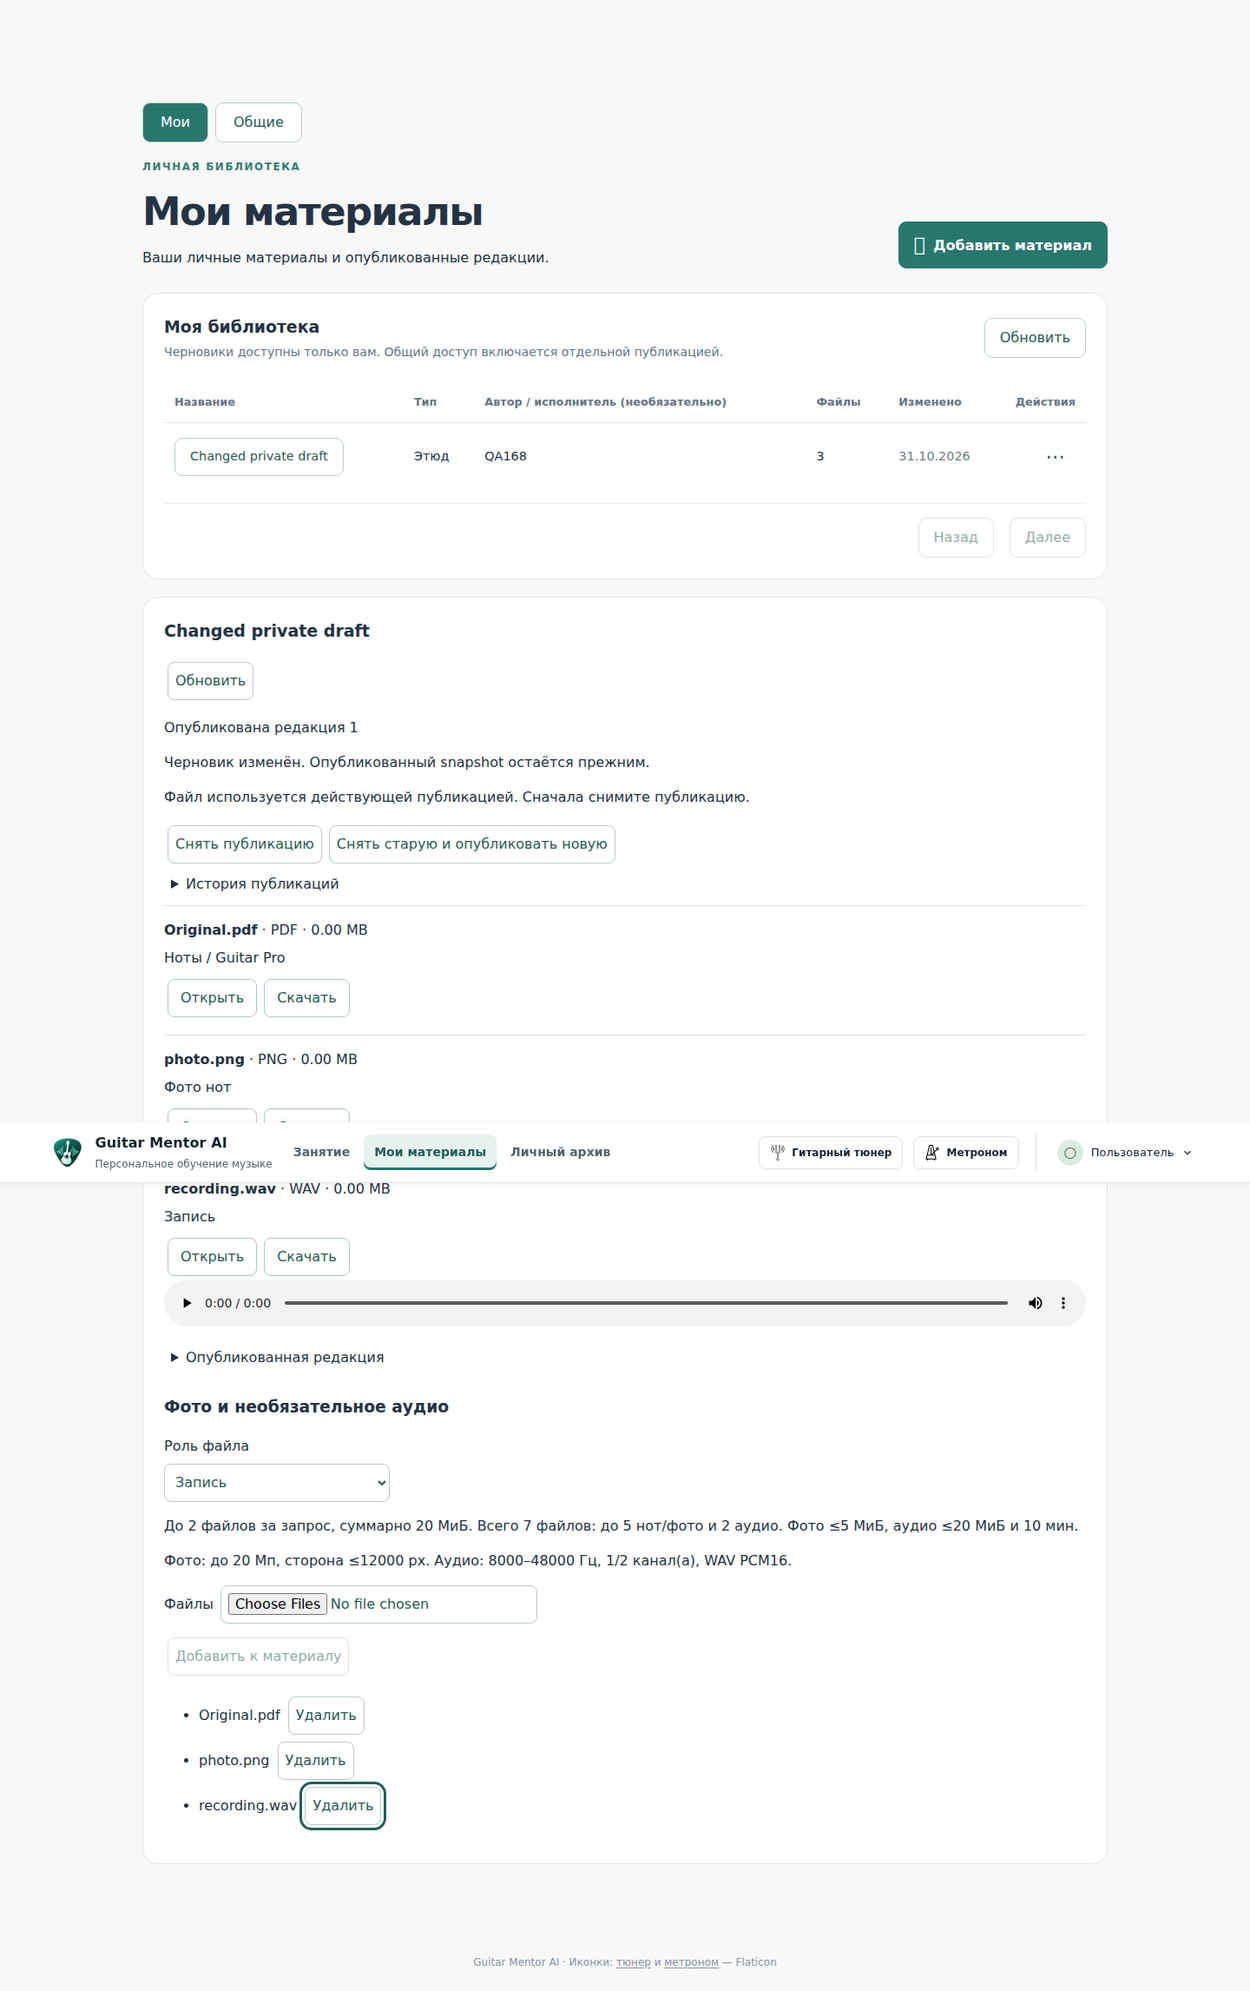
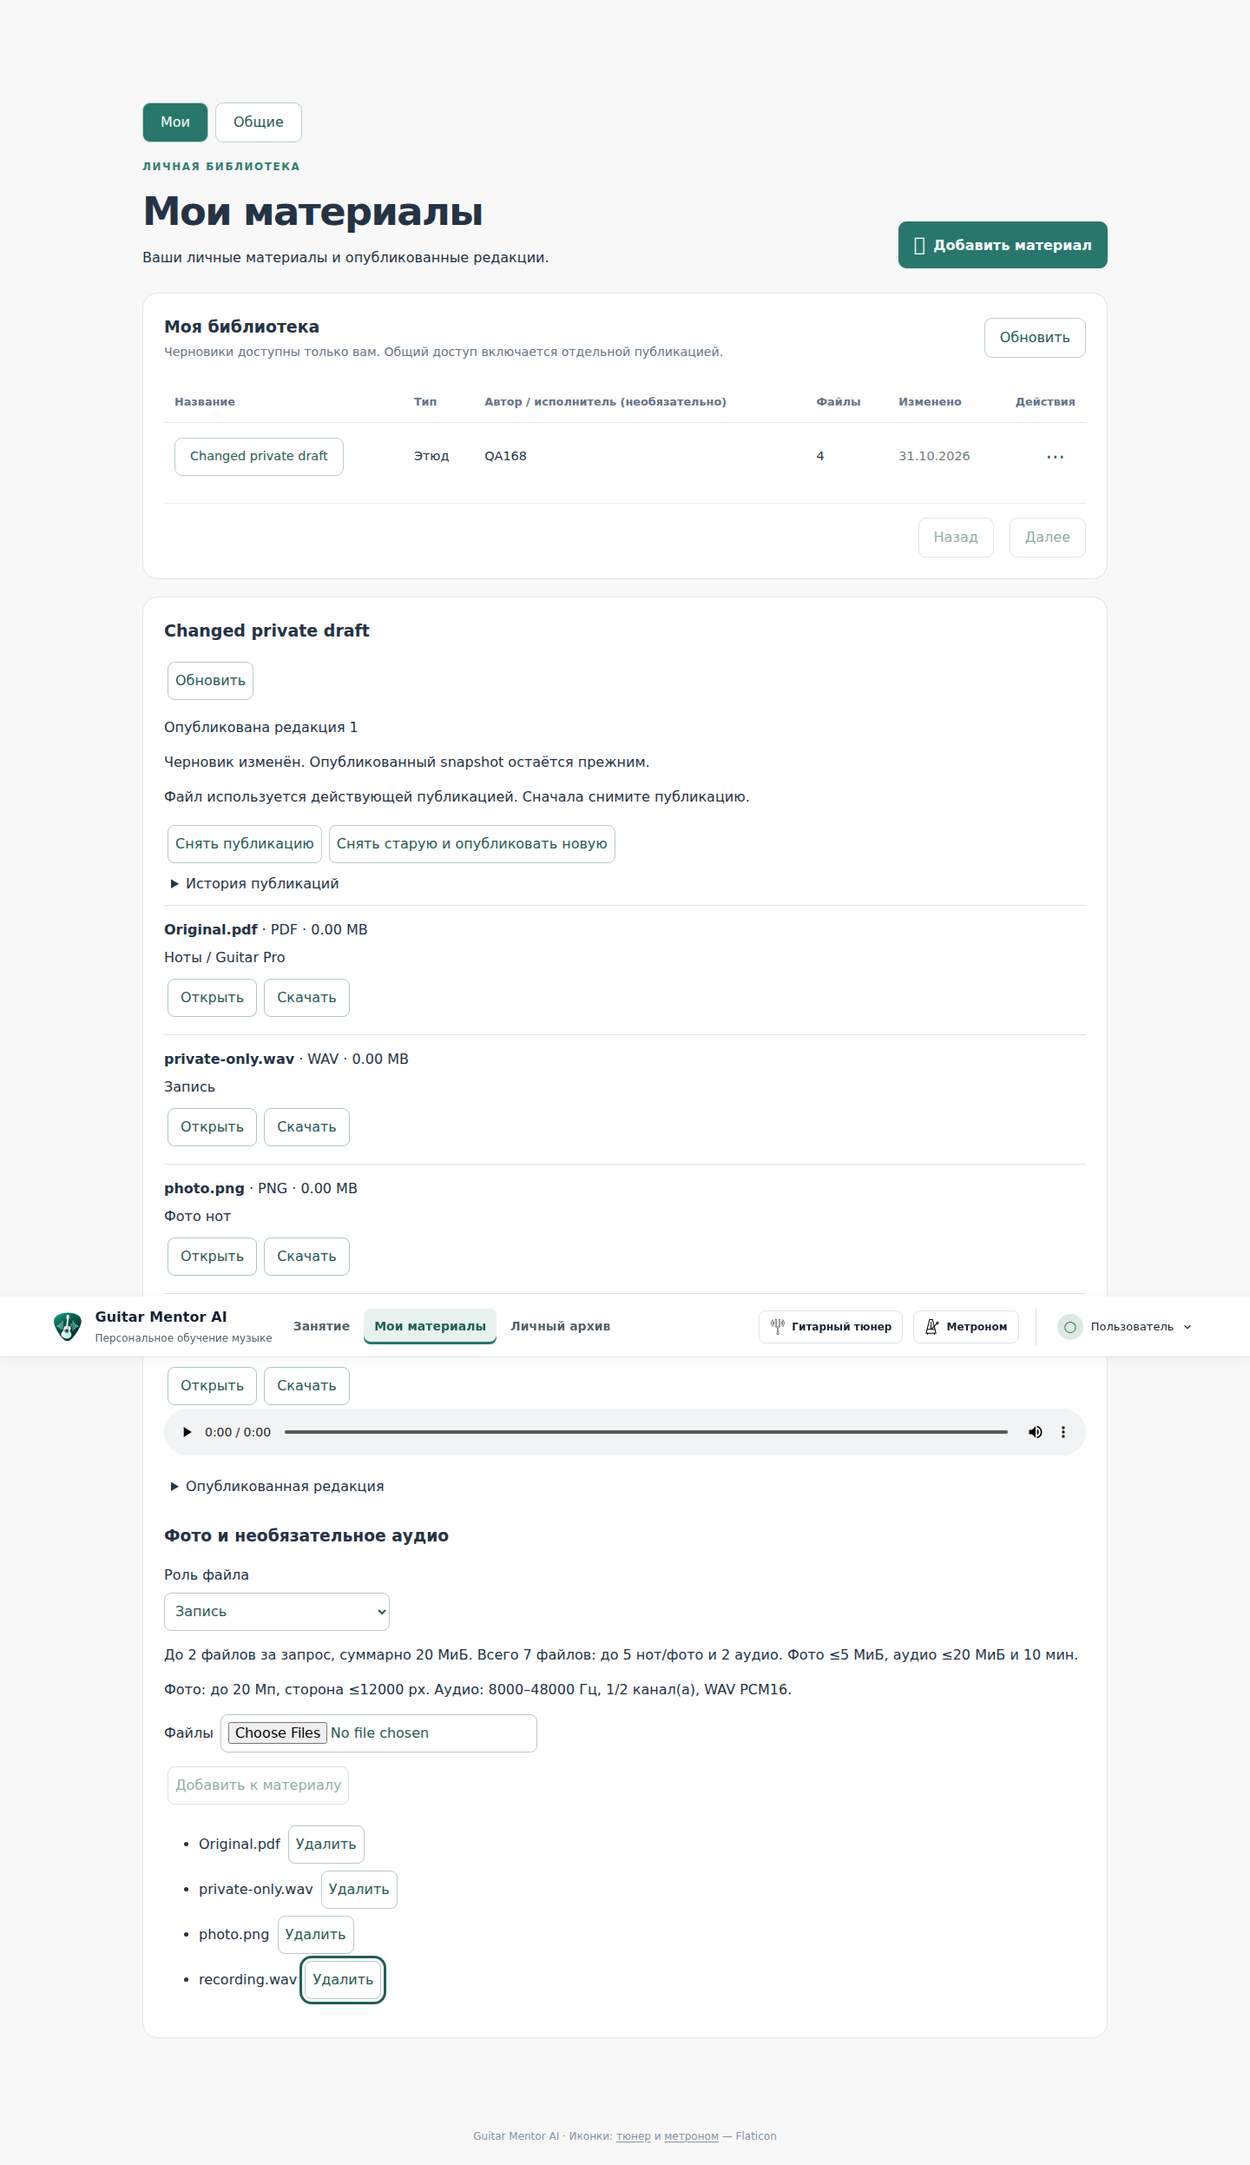
fix(catalog): publish only explicitly selected ready assets (#168)

diff --git a/frontend/src/entities/library/MaterialSharing.vue b/frontend/src/entities/library/MaterialSharing.vue
@@ -198,11 +198,11 @@ async function publish() {
     const selected = rights.value
       .filter((r) => r.chosen)
       .map(({ chosen: _, ...r }) => r);
-    // Accepted backend currently requires rights for every source asset, not a subset.
     if (
       !confirm.value ||
-      selected.length !== material.files.length ||
       !selected.length ||
+      !selected.some(r=>material.files.some(f=>f.id===r.assetId && ['SCORE_ORIGINAL','PHOTO_ORIGINAL'].includes(f.role))) ||
+      selected.some(r=>!material.files.some(f=>f.id===r.assetId && f.processingState==='READY')) ||
       selected.some(
         (r) =>
           !r.rightsBasis ||
@@ -524,7 +524,7 @@ async function refresh() {
           >
           <label
             >{{ t("community.basis")
-            }}<select v-model="r.rightsBasis" required @change="basis(r)">
+            }}<select v-model="r.rightsBasis" :required="r.chosen" :disabled="!r.chosen" @change="basis(r)">
               <option disabled value="">{{ t("community.choose") }}</option>
               <option v-for="b in bases" :key="b" :value="b">
                 {{ t("community.bases." + b) }}
@@ -541,14 +541,14 @@ async function refresh() {
             >{{ t("community.evidence")
             }}<textarea
               v-model="r.rightsEvidence"
-              required
+              :required="r.chosen" :disabled="!r.chosen"
               minlength="8"
               maxlength="500"
             />
           </label>
           <label
             >{{ t("community.attribution")
-            }}<textarea v-model="r.attribution" maxlength="2000" />
+            }}<textarea v-model="r.attribution" :disabled="!r.chosen" maxlength="2000" />
           </label>
         </fieldset>
         <label

diff --git a/backend/src/test/java/ai/guitarmentor/interfaces/rest/library/LibraryPublicationPostgresTest.java b/backend/src/test/java/ai/guitarmentor/interfaces/rest/library/LibraryPublicationPostgresTest.java
@@ -77,6 +77,78 @@ class LibraryPublicationPostgresTest {
     }
     interface Executable {void run() throws Exception;}
 
+    private UUID extraAsset(UUID material,String role,String state) throws Exception {
+        UUID id=UUID.randomUUID();
+        var stored=storage.put(new ByteArrayInputStream("synthetic private asset".getBytes()),1024);
+        boolean audio=role.equals("ORIGINAL_RECORDING");
+        jdbc.sql("""
+            INSERT INTO library_assets(id,material_id,object_key,original_name,format,byte_size,sha256,role,media_type,processing_state,duration_millis,channels,sample_rate)
+            VALUES(:id,:material,:key,:name,:format,:bytes,:sha,:role,:mime,:state,
+                CASE WHEN :role='ORIGINAL_RECORDING' THEN 1000 ELSE NULL END,
+                CASE WHEN :role='ORIGINAL_RECORDING' THEN 1 ELSE NULL END,
+                CASE WHEN :role='ORIGINAL_RECORDING' THEN 8000 ELSE NULL END)
+            """).param("id",id).param("material",material).param("key",stored.key())
+            .param("name",audio?"private.wav":"private.pdf").param("format",audio?"WAV":"PDF")
+            .param("bytes",stored.length()).param("sha",stored.sha256()).param("role",role)
+            .param("mime",audio?"audio/wav":"application/pdf").param("state",state).update();
+        return id;
+    }
+    @Test void selectedSubsetExcludesPrivateAudioAndUnavailableUnselectedAssetEvenWithMediaOff() throws Exception {
+        UUID owner=newAccount("LEARNER"),reader=newAccount("LEARNER");
+        var source=material(owner,"Subset without audio");
+        UUID audio=extraAsset(source.material(),"ORIGINAL_RECORDING","READY");
+        UUID rejected=extraAsset(source.material(),"SCORE_ORIGINAL","REJECTED");
+        String key=UUID.randomUUID().toString();
+        var selected=rights(source.asset());
+        var result=publications.publish(req(owner,"LEARNER"),source.material(),"\"1\"",key,selected).getBody();
+        assertEquals(List.of(source.asset()),result.assets().stream().map(a->a.id()).toList());
+        assertEquals(result.id(),publications.publish(req(owner,"LEARNER"),source.material(),"\"1\"",key,selected).getBody().id());
+        assertEquals("PUBLICATION_IDEMPOTENCY_CONFLICT",code(()->publications.publish(req(owner,"LEARNER"),source.material(),"\"1\"",key,rights(audio))));
+        assertEquals("PUBLICATION_NOT_FOUND",code(()->publications.publishedContent(req(reader,"LEARNER"),result.id(),audio)));
+        assertEquals("PUBLICATION_NOT_FOUND",code(()->publications.publishedContent(req(reader,"LEARNER"),result.id(),rejected)));
+        assertEquals(1,search.search(req(reader,"LEARNER"),"Subset without audio",null,null,false,20,null).getBody().items().size());
+        assertTrue(search.search(req(reader,"LEARNER"),"Subset without audio",null,null,true,20,null).getBody().items().isEmpty());
+    }
+    @Test void selectedSubsetRejectsForeignUnknownDuplicateAndAudioOnlyAssets() throws Exception {
+        UUID owner=newAccount("LEARNER");
+        var source=material(owner,"Selection validation");var other=material(owner,"Other private material");
+        UUID audio=extraAsset(source.material(),"ORIGINAL_RECORDING","READY");
+        var request=req(owner,"LEARNER");
+        for(UUID invalid:List.of(other.asset(),UUID.randomUUID())) {
+            var mixed=new LibraryPublicationController.PublishRequest(List.of(rights(source.asset()).assets().getFirst(),rights(invalid).assets().getFirst()));
+            assertEquals("PUBLICATION_INVALID_RIGHTS",code(()->publications.publish(request,source.material(),"\"1\"",mixed)));
+        }
+        assertEquals("PUBLICATION_INVALID_RIGHTS",code(()->publications.publish(request,source.material(),"\"1\"",rights(audio))));
+        var duplicate=new LibraryPublicationController.PublishRequest(List.of(rights(source.asset()).assets().getFirst(),rights(source.asset()).assets().getFirst()));
+        assertEquals("PUBLICATION_INVALID_RIGHTS",code(()->publications.publish(request,source.material(),"\"1\"",duplicate)));
+        assertEquals(0L,jdbc.sql("SELECT count(*) FROM library_publications WHERE material_id=:id").param("id",source.material()).query(Long.class).single());
+    }
+    @Test void selectedSubsetRequiresReadyAndOwnRightsForEveryIncludedAsset() throws Exception {
+        UUID owner=newAccount("LEARNER");var source=material(owner,"Ready selection");
+        UUID rejected=extraAsset(source.material(),"SCORE_ORIGINAL","REJECTED");
+        var payload=new LibraryPublicationController.PublishRequest(List.of(rights(source.asset()).assets().getFirst(),rights(rejected).assets().getFirst()));
+        assertEquals("CATALOG_ASSET_NOT_READY",code(()->publications.publish(req(owner,"LEARNER"),source.material(),"\"1\"",payload)));
+        var invalidRight=new LibraryPublicationController.AssetRight(source.asset(),"CREATED","OWN_WORK","");
+        assertEquals("PUBLICATION_INVALID_RIGHTS",code(()->publications.publish(req(owner,"LEARNER"),source.material(),"\"1\"",new LibraryPublicationController.PublishRequest(List.of(invalidRight)))));
+        assertEquals("LIBRARY_REVISION_CONFLICT",code(()->publications.publish(req(owner,"LEARNER"),source.material(),"\"2\"",rights(source.asset()))));
+    }
+
+    @Test void photoOnlySelectionCanLeaveScorePrivateWhenMediaEnabled() throws Exception {
+        UUID owner=newAccount("LEARNER");var source=material(owner,"Photo selected");
[1 lines of base64/hex data omitted]
+        var original=storage.put(new ByteArrayInputStream(bytes),1024);var preview=storage.put(new ByteArrayInputStream(bytes),1024);
+        jdbc.sql("""
+            INSERT INTO library_assets(id,material_id,object_key,original_name,format,byte_size,sha256,role,media_type,width,height,preview_object_key,preview_byte_size)
+            VALUES(:id,:material,:key,'selected.png','PNG',:bytes,:sha,'PHOTO_ORIGINAL','image/png',1,1,:preview,:bytes)
+            """).param("id",photo).param("material",source.material()).param("key",original.key())
+            .param("bytes",original.length()).param("sha",original.sha256()).param("preview",preview.key()).update();
+        var media=new LibraryPublicationController(jdbc,storage,true,true);
+        var published=media.publish(req(owner,"LEARNER"),source.material(),"\"1\"",rights(photo)).getBody();
+        assertEquals(List.of(photo),published.assets().stream().map(a->a.id()).toList());
+        assertNotNull(published.assets().getFirst().previewUrl());
+        assertEquals("PUBLICATION_NOT_FOUND",code(()->media.publishedContent(req(owner,"LEARNER"),published.id(),source.asset())));
+    }
+
     @Test void allRequestedTagsAndOpaqueCursorExcludeSingleTagMatches() throws Exception {
         UUID owner=newAccount("LEARNER"),reader=newAccount("LEARNER");
         var a=material(owner,"AND regression A only");

diff --git a/backend/src/main/java/ai/guitarmentor/interfaces/rest/library/LibraryPublicationController.java b/backend/src/main/java/ai/guitarmentor/interfaces/rest/library/LibraryPublicationController.java
@@ -190,15 +190,30 @@ public class LibraryPublicationController {
             """).param("id",materialId).query(Long.class).single();
         if(already!=0) throw new Failure(409,"PUBLICATION_ALREADY_ACTIVE");
 
-        var assets=jdbc.sql("""
+        Map<UUID,AssetRight> rights=new HashMap<>();
+        for(var right:payload.assets()) {
+            if(right==null || right.assetId()==null || right.rightsBasis()==null
+                    || !BASES.contains(right.rightsBasis())
+                    || (right.provenance()!=null && !PROVENANCES.contains(right.provenance()))
+                    || (right.attribution()!=null && right.attribution().length()>2000)
+                    || right.rightsEvidence()==null || right.rightsEvidence().isBlank()
+                    || right.rightsEvidence().trim().length()<8
+                    || right.rightsEvidence().length()>500
+                    || rights.putIfAbsent(right.assetId(),right)!=null)
+                throw new Failure(400,"PUBLICATION_INVALID_RIGHTS");
+        }
+        var sourceAssets=jdbc.sql("""
             SELECT id,original_name,format,byte_size,sha256,object_key,role,media_type,
                 duration_millis,channels,sample_rate,width,height,preview_object_key,preview_byte_size,processing_state
             FROM library_assets WHERE material_id=:id ORDER BY id FOR SHARE
             """).param("id",materialId).query().listOfRows();
+        // Select only explicitly attested assets belonging to this material. Never infer
+        // membership from an asset UUID, title or owner supplied by the client.
+        var assets=sourceAssets.stream().filter(asset->rights.containsKey((UUID)asset.get("id"))).toList();
         long scorePhoto=assets.stream().filter(a->Set.of("SCORE_ORIGINAL","PHOTO_ORIGINAL").contains(a.get("role"))).count();
         long audio=assets.stream().filter(a->Set.of("ORIGINAL_RECORDING","SYNTHESIZED_PREVIEW").contains(a.get("role"))).count();
         if(assets.isEmpty() || assets.size()>7 || scorePhoto<1 || scorePhoto>5 || audio>2
-                || payload==null || payload.assets()==null || payload.assets().size()!=assets.size())
+                || assets.size()!=rights.size())
             throw new Failure(400,"PUBLICATION_INVALID_RIGHTS");
         if(assets.stream().anyMatch(a->!"READY".equals(a.get("processing_state"))
                 || ("PHOTO_ORIGINAL".equals(a.get("role")) && a.get("preview_object_key")==null)))
@@ -212,24 +227,6 @@ public class LibraryPublicationController {
             }
         } catch(java.nio.file.NoSuchFileException e) { throw new Failure(409,"CATALOG_ASSET_NOT_READY"); }
           catch(IOException e) { throw new Failure(503,"PUBLICATION_STORAGE_UNAVAILABLE"); }
-        Map<UUID,AssetRight> rights=new HashMap<>();
-        for(var right:payload.assets()) {
-            if(right==null || right.assetId()==null || right.rightsBasis()==null
-                    || !BASES.contains(right.rightsBasis())
-                    || (right.provenance()!=null && !PROVENANCES.contains(right.provenance()))
-                    || (right.attribution()!=null && right.attribution().length()>2000)
-                    || right.rightsEvidence()==null || right.rightsEvidence().isBlank()
-                    || right.rightsEvidence().trim().length()<8
-                    || right.rightsEvidence().length()>500
-                    || rights.putIfAbsent(right.assetId(),right)!=null)
-                throw new Failure(400,"PUBLICATION_INVALID_RIGHTS");
-        }
-        // Assertions must be made independently for every asset. A material-level checkbox
-        // cannot attest rights to a second file. Evidence is recorded, not independently verified.
-        for(var asset:assets) {
-            UUID assetId=(UUID)asset.get("id");
-            if(!rights.containsKey(assetId)) throw new Failure(400,"PUBLICATION_INVALID_RIGHTS");
-        }
         long latest=jdbc.sql("""
             SELECT COALESCE(max(version),0) FROM library_publications WHERE material_id=:id
             """).param("id",materialId).query(Long.class).single();

diff --git a/backend/src/test/java/ai/guitarmentor/infrastructure/security/CommunityLibraryLiveHttpPostgresTest.java b/backend/src/test/java/ai/guitarmentor/infrastructure/security/CommunityLibraryLiveHttpPostgresTest.java
@@ -63,8 +63,10 @@ class CommunityLibraryLiveHttpPostgresTest {
             var alice=new Session();var bob=new Session();var guest=new Session();alice.login(nameA);bob.login(nameB);
             String boundary="qa168"+suffix;
             String multipart="--"+boundary+"\r\nContent-Disposition: form-data; name=\"metadata\"\r\nContent-Type: application/json\r\n\r\n{\"title\":\"QA168 original\",\"type\":\"ETUDE\"}\r\n--"+boundary+"\r\nContent-Disposition: form-data; name=\"files\"; filename=\"synthetic.pdf\"\r\nContent-Type: application/pdf\r\n\r\n%PDF-1.7\nSynthetic QA168 score\n\r\n--"+boundary+"--\r\n";
+            multipart=multipart.replace("--"+boundary+"--\r\n", "--"+boundary+"\r\nContent-Disposition: form-data; name=\"files\"; filename=\"private-only.pdf\"\r\nContent-Type: application/pdf\r\n\r\n%PDF-1.7\nPrivate omitted score\n\r\n--"+boundary+"--\r\n");
             var created=alice.request("POST","/api/v1/library/materials",multipart,Map.of("Content-Type","multipart/form-data; boundary="+boundary,"Idempotency-Key",UUID.randomUUID().toString()));
             assertEquals(201,created.statusCode(),created.body());JsonNode material=JSON.readTree(created.body());String id=material.path("id").asText(),asset=material.path("files").get(0).path("id").asText();
+            String omitted=material.path("files").get(1).path("id").asText();
             String own="/api/v1/library/materials/"+id;
             assertEquals(404,bob.request("GET",own,null,Map.of()).statusCode());
             assertEquals(404,bob.request("GET",own+"/publications",null,Map.of()).statusCode());
@@ -76,13 +78,15 @@ class CommunityLibraryLiveHttpPostgresTest {
             assertEquals(200,alice.request("POST",own+"/publications",body,headers).statusCode());
             assertEquals(401,guest.request("GET",common,null,Map.of()).statusCode());
             var read=bob.request("GET",common,null,Map.of());assertEquals(200,read.statusCode(),read.body());assertEquals("QA168 original",JSON.readTree(read.body()).path("title").asText());
+            assertEquals(1,JSON.readTree(read.body()).path("assets").size());
+            assertEquals(404,bob.request("GET",common+"/files/"+omitted+"/content",null,Map.of()).statusCode(),"an omitted source asset is never shared");
             assertFalse(JSON.readTree(read.body()).has("ownerAccountId"));assertFalse(JSON.readTree(read.body()).has("materialId"));
             assertEquals(200,bob.request("GET",common+"/files/"+asset+"/content",null,Map.of()).statusCode());
             var edited=alice.request("PATCH",own,"{\"title\":\"QA168 changed draft\"}",Map.of("Content-Type","application/json","If-Match","\"1\""));assertEquals(200,edited.statusCode(),edited.body());
             var stable=bob.request("GET",common,null,Map.of());assertEquals(JSON.readTree(read.body()),JSON.readTree(stable.body()),"draft edit cannot change snapshot");
             var withdrawn=alice.request("POST",own+"/publications/"+snapshot.path("id").asText()+"/withdraw","{}",Map.of("Content-Type","application/json","If-Match","\""+snapshot.path("revision").asLong()+"\""));assertEquals(200,withdrawn.statusCode(),withdrawn.body());
             assertEquals(404,bob.request("GET",common,null,Map.of()).statusCode());assertEquals(404,bob.request("GET",common+"/files/"+asset+"/content",null,Map.of()).statusCode());
-            System.out.println("QA168 LIVE HTTP/PostgreSQL PASS: independent A/B cookie jars, guest deny, publish replay, draft private, snapshot stable, withdraw revokes detail+bytes");
+            System.out.println("QA168 LIVE HTTP/PostgreSQL PASS: independent A/B cookie jars, guest deny, selected subset + omitted bytes denied, publish replay, draft private, snapshot stable, withdraw revokes detail+bytes");
         } finally {
             // Only synthetic accounts made by this test; all paths live under a unique temp root.
             for(String sql:List.of(

diff --git a/docs/development/FT-012-01-publication-lifecycle.md b/docs/development/FT-012-01-publication-lifecycle.md
@@ -46,3 +46,8 @@ Flyway V28 is additive. No automatic sharing, no backfill, no migration of index
 
 ## Acceptance boundary
 This task is backend publication/withdraw/HIDE; **not** visible in the current UI until #168 and not discoverable via public search until #166. Direct public-detail links are addressable only with a known publication UUID. CI and security review must pass before user acceptance, merge and closing #165.
+
+
+## #168: explicit selected assets (01.11.2026)
+
+Owner-authorized follow-up: publish accepts a non-empty READY subset from the owner's current material, with at least one SCORE_ORIGINAL or PHOTO_ORIGINAL and independent rights for every included asset. Unselected originals/audio remain private and are absent from the immutable snapshot, search hasAudio and shared byte routes. Unknown/foreign/duplicate selections, audio-only selections and invalid selected rights fail; readiness/storage/media-flag checks apply only to selected assets. Existing whole-set requests, revision headers, idempotency replay/conflict, withdraw/HIDDEN and CSRF remain unchanged. No schema migration. Regression evidence: `docs/testing/qa168/README.md` and final PR258 CI.
